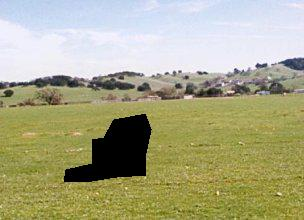
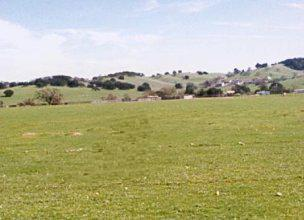
finished patching capabilities

Changed region(s): [[0.2072, 0.5182, 0.5033, 0.8455]]

diff --git a/hw3/Holefill.py b/hw3/Holefill.py
@@ -7,20 +7,26 @@ import pickle
 ##############################################################################
 #                        Functions for you to complete                       #
 ##############################################################################
-
+import random as rand
+rand.seed(10)
 def ComputeSSD(TODOPatch, TODOMask, textureIm, patchL):
 	patch_rows, patch_cols, patch_bands = np.shape(TODOPatch)
 	tex_rows, tex_cols, tex_bands = np.shape(textureIm)
 	ssd_rows = tex_rows - 2 * patchL
 	ssd_cols = tex_cols - 2 * patchL
 	SSD = np.zeros((ssd_rows,ssd_cols))
+
+	TODOPatchMask = 1.0*np.multiply(TODOPatch, np.transpose(np.array([1-TODOMask,]*3)))
+	print 1-TODOMask
 	for r in range(ssd_rows):
 		for c in range(ssd_cols):
+			
 			# Compute sum square difference between textureIm and TODOPatch
 			# for all pixels where TODOMask = 0, and store the result in SSD
-			#
-			# ADD YOUR CODE HERE
-			#
+			# SSD[r,c] = rand.randrange(0,1000000)
+			#print r, r+2*patchL+1
+			#print c, c+2*patchL+1
+			SSD[r,c] = np.sum(np.square(np.subtract(1.0*textureIm[r:r+2*patchL+1,c:c+2*patchL+1],1.0*TODOPatch)))
 			pass
 		pass
 	return SSD
@@ -29,12 +35,12 @@ def CopyPatch(imHole,TODOMask,textureIm,iPatchCenter,jPatchCenter,iMatchCenter,j
 	patchSize = 2 * patchL + 1
 	for i in range(patchSize):
 		for j in range(patchSize):
+
 			# Copy the selected patch selectPatch into the image containing
 			# the hole imHole for each pixel where TODOMask = 1.
 			# The patch is centred on iPatchCenter, jPatchCenter in the image imHole
-			#
-			# ADD YOUR CODE HERE
-			#
+			if TODOMask[i,j] == 1:
+				imHole[iPatchCenter-patchL+i,jPatchCenter-patchL+j] =  textureIm[iMatchCenter-patchL+i,jMatchCenter-patchL+j]
 			pass
 		pass
 	return imHole
@@ -144,19 +150,20 @@ imHole[fill_indices] = 0
 #
 if showResults == True:
 	# original
-	im.show()
+	#UNCOMMENT im.show()
 	# convert to a PIL image, show fillRegion and draw a box around textureIm
 	im1 = Image.fromarray(imHole).convert('RGB')
 	im1 = DrawBox(im1,jTextureMin,iTextureMin,jTextureMax,iTextureMax)
-	im1.show()
+	#UNCOMMENT im1.show()
 	print "Are you happy with this choice of fillRegion and textureIm?"
-	Yes_or_No = False
+	Yes_or_No = True # original is FALSE	
+	'''
 	while not Yes_or_No:
 		answer = raw_input("Yes or No: ")
 		if answer == "Yes" or answer == "No":
 			Yes_or_No = True
 	assert answer == "Yes", "You must be happy. Please try again."
-
+	'''
 #
 # Perform the hole filling
 #
